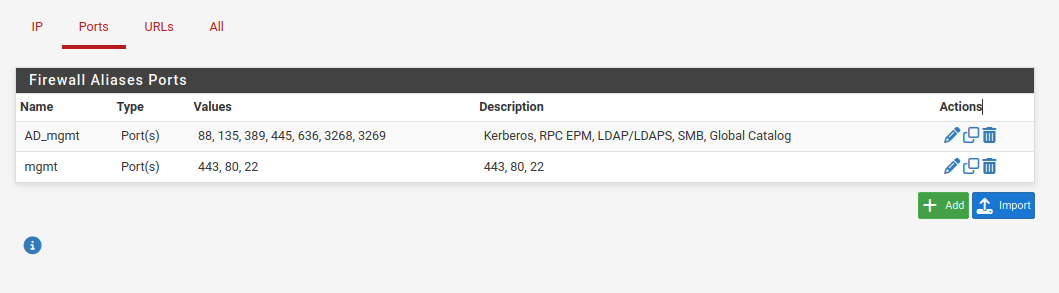
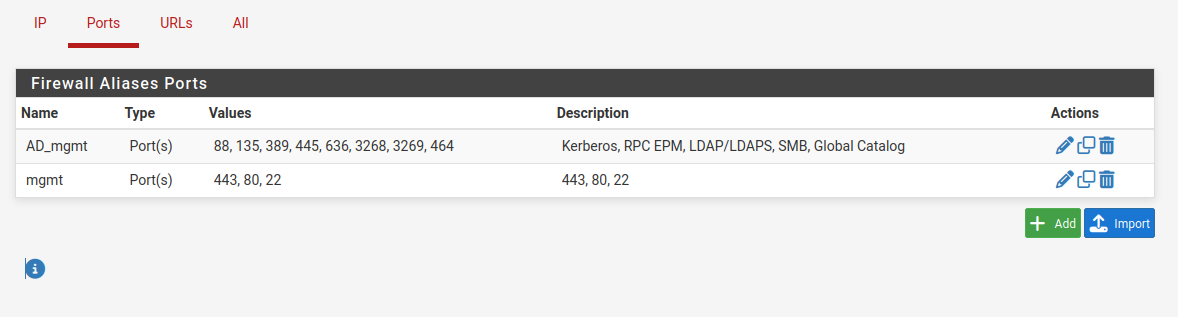
Move the Kerberos kpasswd (464) note to the firewall alias stage
Add 464 to the AD_mgmt alias screenshot and flag it where the alias is
created, rather than as a callout in Stage 8c.

diff --git a/index.html b/index.html
@@ -984,9 +984,15 @@ Do you want to proceed? Y</pre>
 
   <!-- MODULE: photo -->
   <figure class="photo">
-    <img src="images/homelab/06-pfsense-port-aliases.png" alt="pfSense port aliases: AD_mgmt with Kerberos, RPC, LDAP, SMB ports and mgmt with 443, 80, 22" loading="lazy">
-    <figcaption>Port aliases — <code>AD_mgmt</code> (Kerberos, RPC EPM, LDAP/LDAPS, SMB, Global Catalog) and <code>mgmt</code> (443, 80, 22).</figcaption>
+    <img src="images/homelab/06-pfsense-port-aliases.png" alt="pfSense port aliases: AD_mgmt with ports 88, 135, 389, 445, 636, 3268, 3269, 464 and mgmt with 443, 80, 22" loading="lazy">
+    <figcaption>Port aliases — <code>AD_mgmt</code> (Kerberos, RPC EPM, LDAP/LDAPS, SMB, Global Catalog, kpasswd) and <code>mgmt</code> (443, 80, 22).</figcaption>
   </figure>
+
+  <!-- MODULE: callout -->
+  <div class="callout">
+    <span class="callout-label">Note</span>
+    Include <code>464</code> (Kerberos <code>kpasswd</code>) in the <code>AD_mgmt</code> alias now. It’s easy to miss because the domain join in <a href="#stage-8">Stage 8</a> still succeeds without it — but the forced password change at a user’s first logon will silently fail.
+  </div>
 
   <!-- MODULE: prose -->
   <p class="prose"><code>Firewall → Rules</code></p>
